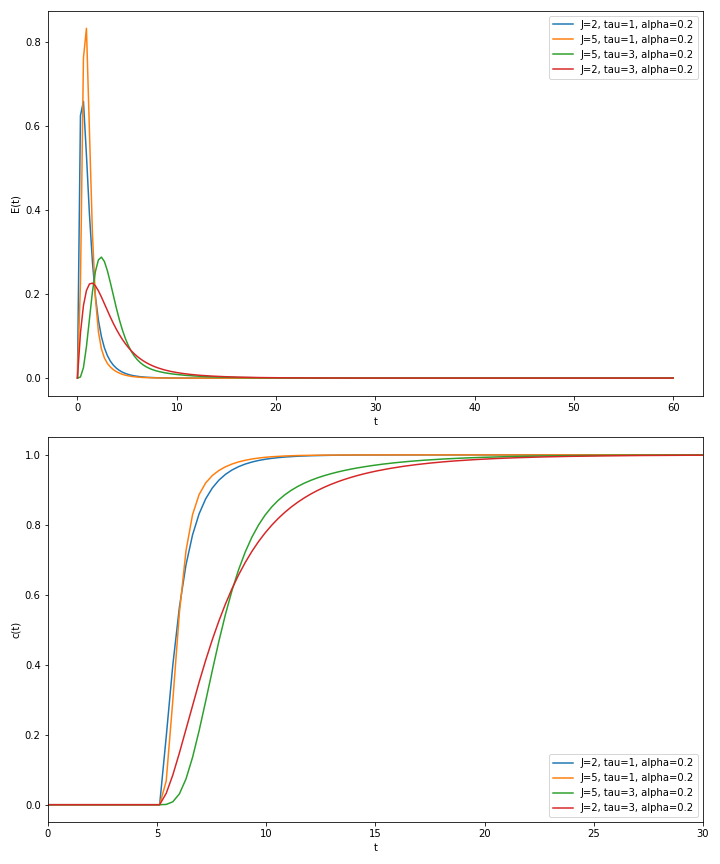
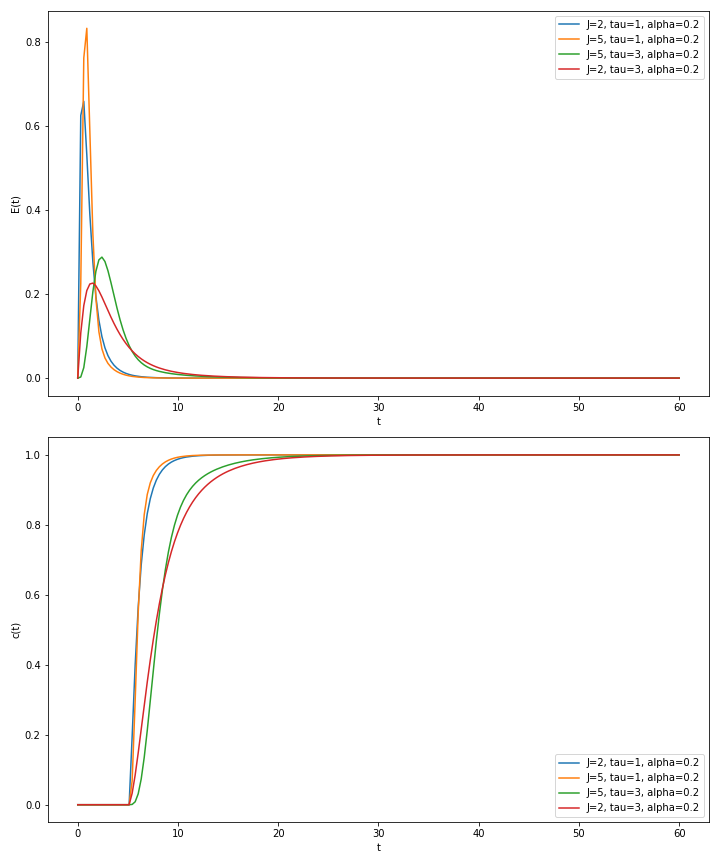
changes in mac

diff --git a/Experiments/Preliminary/Litrature/Dispersion_Model/Dispersion_Model_002.py b/Experiments/Preliminary/Litrature/Dispersion_Model/Dispersion_Model_002.py
@@ -14,12 +14,12 @@ def dispersion(t: npt.NDArray[np.float64], Bo: float, tau: float) -> npt.NDArray
     E = E / tau
     return E
 
-t = np.linspace(0, 240, 200, endpoint=True) #last position
+t = np.linspace(0, 140, 200, endpoint=True) #last position
 c_0 = np.zeros_like(t)
 c_0[t > 5] = 1
 fig, (ax1, ax2) = plt.subplots(2, 1, figsize=(10, 12))
 
-Bo_values = np.array([1])
+Bo_values = np.array([1,3,10])
 
 base_dir = '/Users/tuanaoyuncu/Documents/GitHub/nRTD/Experiments/Preliminary/Litrature/Dispersion_Model'
 
@@ -31,7 +31,7 @@ for Bo in Bo_values:
     valid_indices = t_conv_full <= 140
     t_conv = t_conv_full[valid_indices]
     c_out = c_out_full[valid_indices]
-    Bo_dir = os.path.join(base_dir, f'Bo{Bo}_200disc_240s')
+    Bo_dir = os.path.join(base_dir, f'Bo{Bo}_200disc_140s')
     os.makedirs(Bo_dir, exist_ok=True)
     print("c_out",c_out.shape)
     print("t_conv_full",t_conv.shape)

diff --git a/Experiments/Preliminary/Litrature/Unified_time_delay/Unified_time_delay_002 2.py b/Experiments/Preliminary/Litrature/Unified_time_delay/Unified_time_delay_002 2.py
@@ -62,8 +62,8 @@ for result in results:
     c_out = c_out_full[valid_indices]
     filename_time = f'time_J{J_val}_tau{tau_val}_alpha{alpha_val}.npy'
     filename_conc = f'concentration_J{J_val}_tau{tau_val}_alpha{alpha_val}.npy'
-    # np.save(os.path.join(base_dir, filename_time), t_conv)
-    # np.save(os.path.join(base_dir, filename_conc), c_out)
+    np.save(os.path.join(base_dir, filename_time), t_conv)
+    np.save(os.path.join(base_dir, filename_conc), c_out)
     print(f"integral E_t: {np.trapz(E_t, t)}")
     ax1.plot(t, E_t, label=f'J={J_val}, tau={tau_val}, alpha={alpha_val}')
     ax2.plot(t_conv, c_out, label=f'J={J_val}, tau={tau_val}, alpha={alpha_val}')
@@ -72,7 +72,6 @@ ax1.set_xlabel('t')
 ax1.set_ylabel('E(t)')
 ax1.legend()
 ax2.set_xlabel('t')
-ax2.set_xlim(0,30)
 ax2.set_ylabel('c(t)')
 ax2.legend()
 plt.tight_layout()

diff --git a/Experiments/Preliminary/Litrature/Cholete_Model/Cholete_Model_004.py b/Experiments/Preliminary/Litrature/Cholete_Model/Cholete_Model_004.py
@@ -25,7 +25,7 @@ c_0 = np.zeros_like(t)
 c_0[t > 5] = 1
 fig, (ax1, ax2) = plt.subplots(2, 1, figsize=(10, 12))
 
-beta_values = np.array([0.1,0.3,0.9])
+beta_values = np.array([0.9])
 base_dir = '/Users/tuanaoyuncu/Documents/GitHub/nRTD/Experiments/Preliminary/Litrature/Cholete_Model'
 
 for beta in beta_values:
@@ -41,8 +41,8 @@ for beta in beta_values:
     c_out = c_out_full[valid_indices]
     Bo_dir = os.path.join(base_dir, f'beta{beta}_100sc')
     os.makedirs(Bo_dir, exist_ok=True)
-    # np.save(os.path.join(Bo_dir, 'time.npy'), t_conv)
-    # np.save(os.path.join(Bo_dir, 'concentration.npy'), c_out)
+    np.save(os.path.join(Bo_dir, 'time.npy'), t_conv)
+    np.save(os.path.join(Bo_dir, 'concentration.npy'), c_out)
     c_out_derivative = np.gradient(c_out, t_conv)
     #ax1.plot(t, E, label=f'beta {beta}')
     
